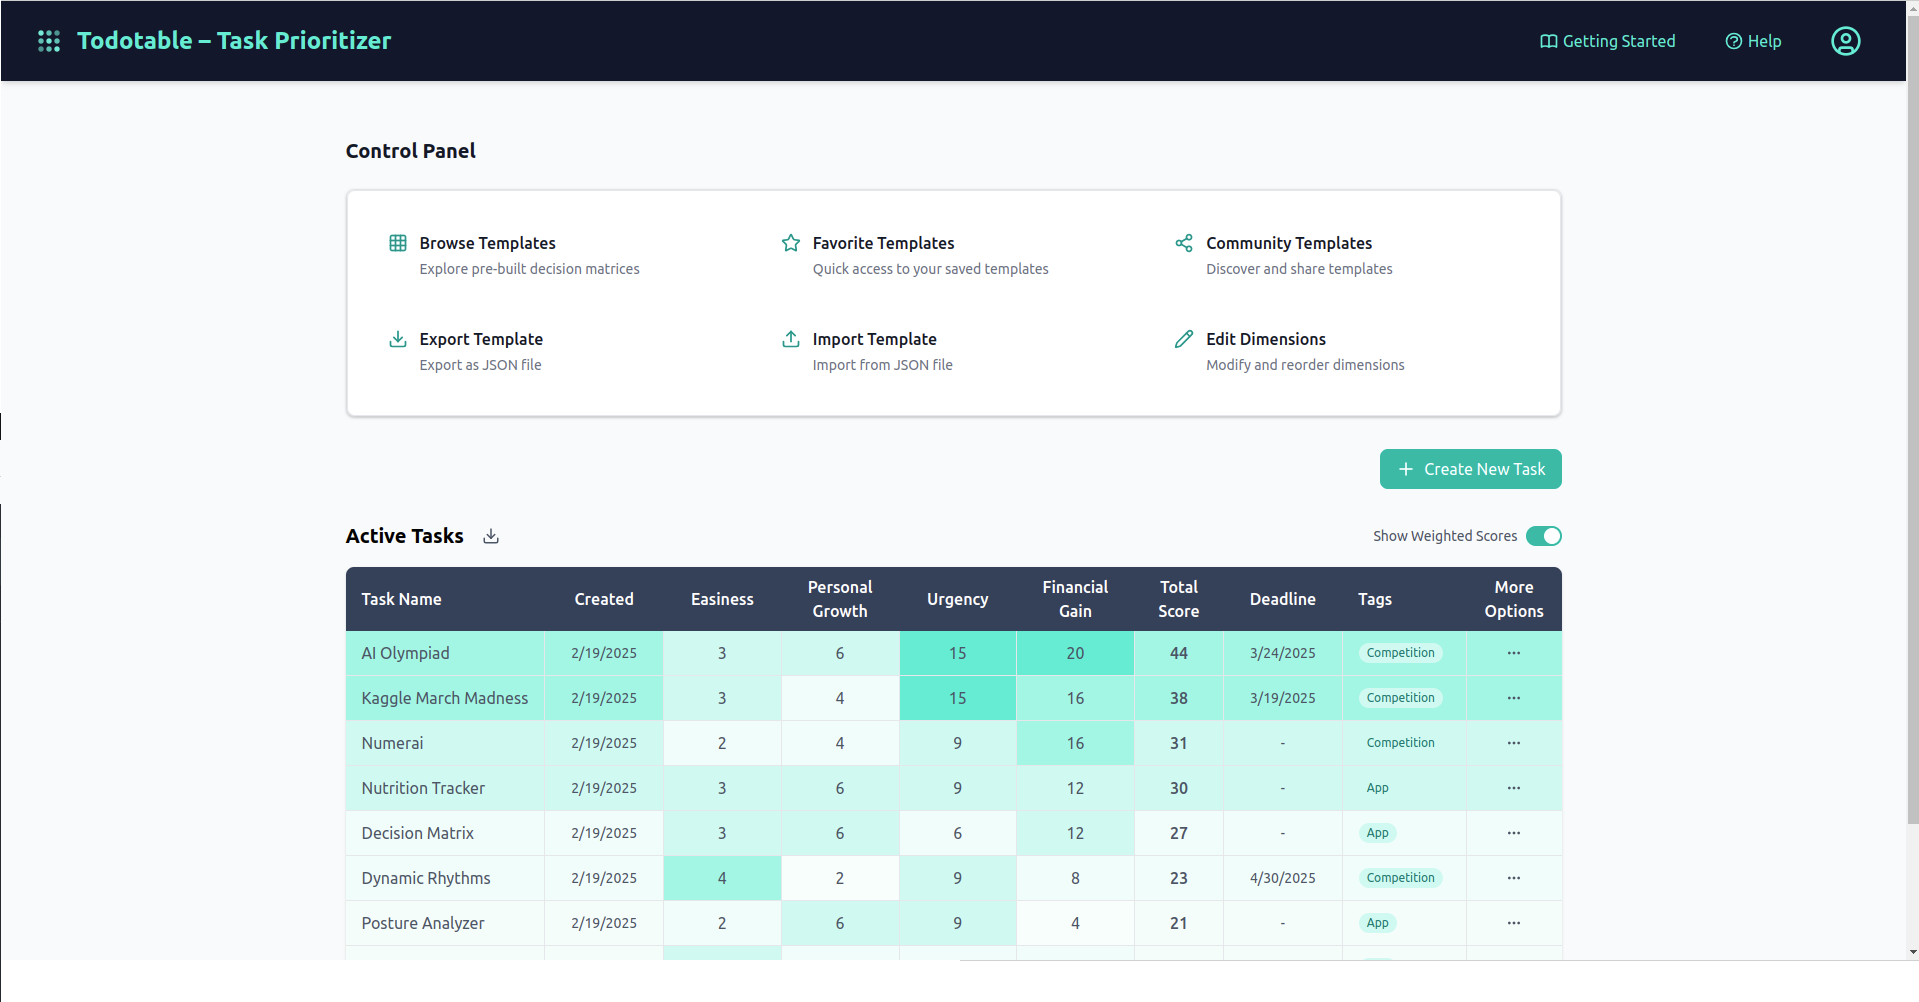
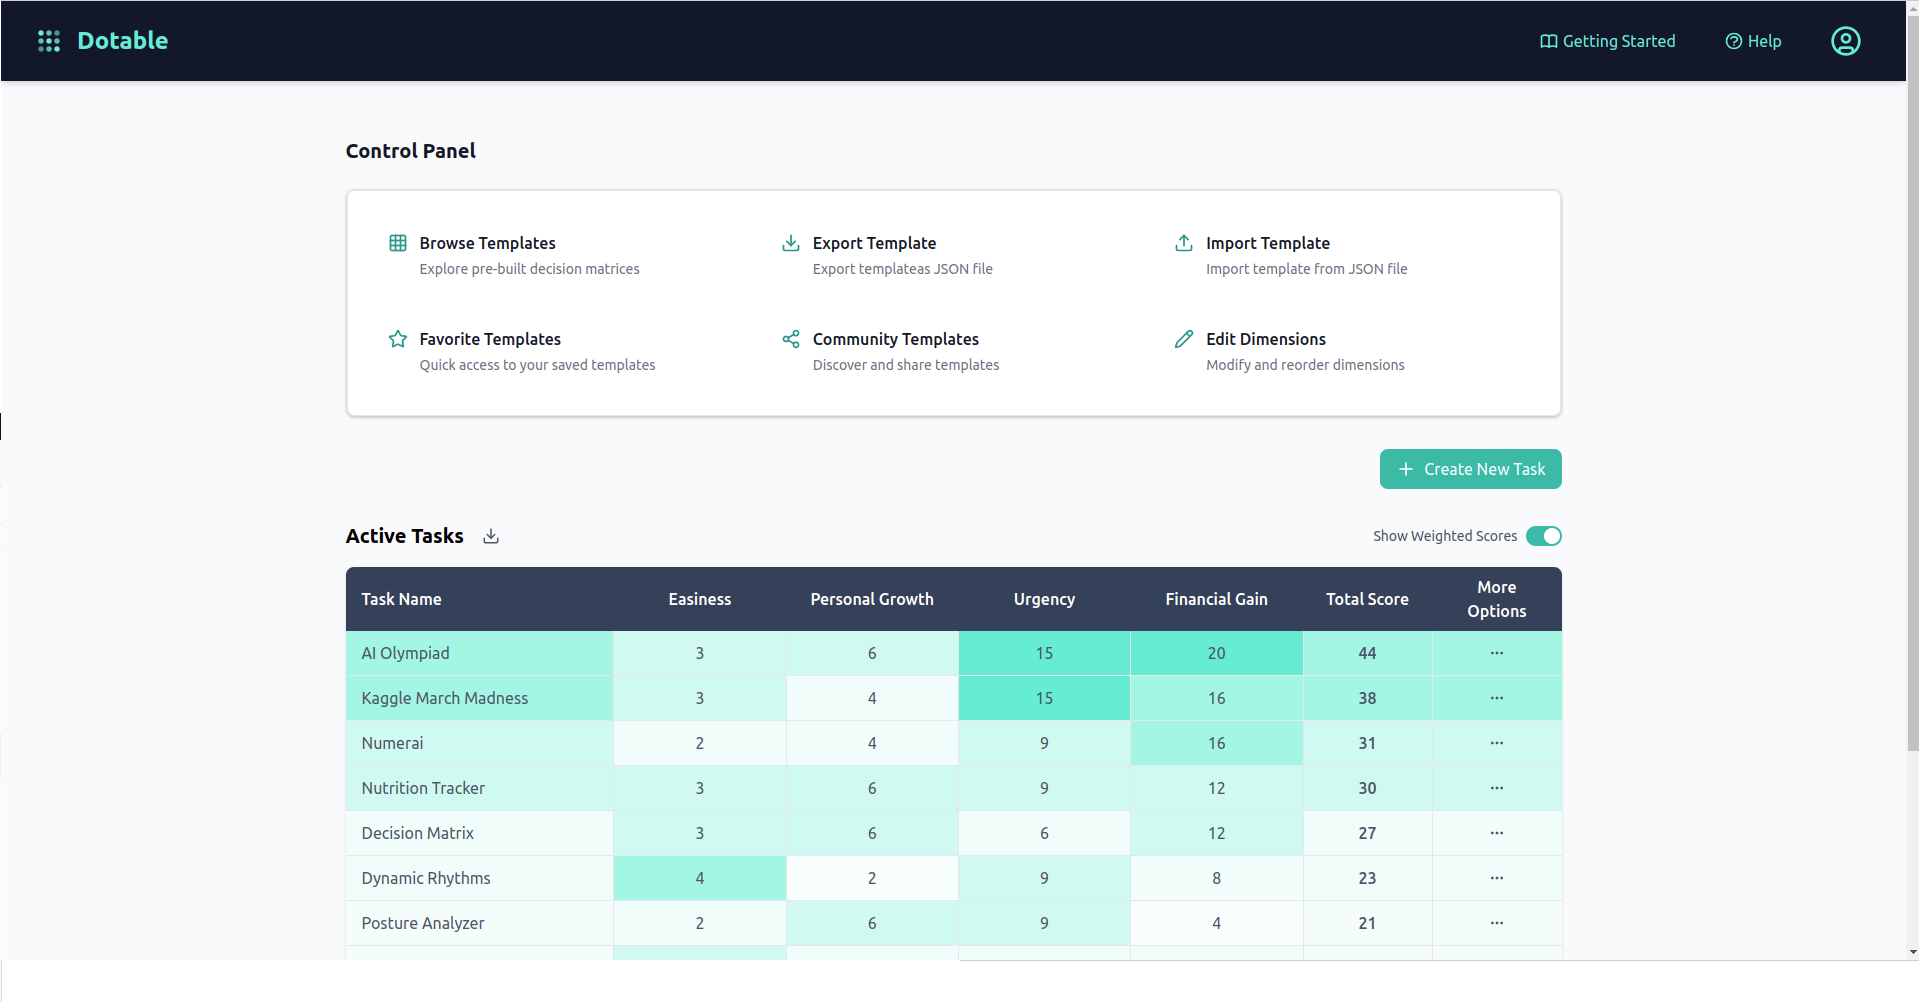
Fix routing bug

diff --git a/src/App.jsx b/src/App.jsx
@@ -82,10 +82,10 @@ function loadTemplateFromStorage() {
 // Create an inner component that can use the useNavigate hook
 function AppContent() {
   const navigate = useNavigate();
-  
+
   // Initialize template and dimensions from localStorage
   const [currentTemplate, setCurrentTemplate] = useState(loadTemplateFromStorage);
-  
+
   // Update localStorage whenever template changes
   useEffect(() => {
     if (currentTemplate) {
@@ -100,7 +100,7 @@ function AppContent() {
     const saved = localStorage.getItem('decision-matrix-show-weighted-scores');
     return saved ? JSON.parse(saved) : true;
   });
-  
+
   // Get tasks state and methods from the hook
   const {
     tasks,
@@ -157,10 +157,10 @@ function AppContent() {
       // Set active and completed tasks
       const activeTasks = (data.activeTasks || []).map(processTask);
       const completedTasks = (data.completedTasks || []).map(processTask);
-      
+
       setTasks(activeTasks);
       setCompletedTasks(completedTasks);
-      
+
       // Update settings if present
       if (data.settings?.showWeightedScores !== undefined) {
         setShowWeightedScores(Boolean(data.settings.showWeightedScores));
@@ -216,11 +216,11 @@ function AppContent() {
     const timestamp = new Date().toISOString().replace(/[:.]/g, '-');
     const blob = new Blob([JSON.stringify(data, null, 2)], { type: 'application/json' });
     const url = URL.createObjectURL(blob);
-    
+
     try {
       const a = document.createElement('a');
       a.href = url;
-      a.download = `2dotable-template-${timestamp}.json`;
+      a.download = `dotable-template-${timestamp}.json`;
       document.body.appendChild(a);
       a.click();
     } finally {
@@ -247,7 +247,7 @@ function AppContent() {
       ...template,
       dimensions: newDimensions
     });
-    
+
     // Create sample tasks with proper structure
     const tasks = (template.tasks || []).map(task => {
       // Create a case-insensitive map of values
@@ -255,7 +255,7 @@ function AppContent() {
       Object.entries(task.values).forEach(([key, value]) => {
         normalizedValues[key.toLowerCase().replace(/\s+/g, '_')] = value;
       });
-      
+
       // Create the base task object
       const newTask = {
         id: Date.now() + Math.random(),
@@ -273,19 +273,19 @@ function AppContent() {
 
       return newTask;
     });
-    
+
     // Set tasks and update localStorage
     setTasks(tasks);
     localStorage.setItem(STORAGE_KEYS.ACTIVE_TASKS, JSON.stringify(tasks));
     localStorage.setItem(STORAGE_KEYS.COMPLETED_TASKS, JSON.stringify([]));
-    
+
     // Use React Router's navigate
     navigate('/');
   };
 
   return (
     <div className="min-h-screen bg-gray-50 flex flex-col">
-      <Navbar 
+      <Navbar
         onSave={handleSave}
         onImport={handleImport}
         onExport={handleExport}
@@ -357,8 +357,8 @@ function AppContent() {
 
 export function App() {
   return (
-    <BrowserRouter 
-      basename="/dotable/"
+    <BrowserRouter
+      basename="/dotable"
       future={{
         v7_startTransition: true,
         v7_relativeSplatPath: true

diff --git a/src/components/DoTable/index.jsx b/src/components/DoTable/index.jsx
@@ -1,5 +1,4 @@
 import React, { useState } from 'react';
-import { TableHeader } from './TableHeader';
 import { WeightedScoresToggle } from './WeightedScoresToggle';
 import { TableBody } from './TableBody';
 import { ConfirmationModal } from '../ConfirmationModal';
@@ -72,7 +71,7 @@ export function DoTable({
     <div className="mt-8">
       <div className="flex items-center justify-between mb-4">
         <div className="flex items-center gap-3">
-          <TableHeader />
+          <h2 className="text-xl font-semibold">Active Tasks</h2>
           <DownloadMenu tasks={tasks} dimensions={dimensions} />
         </div>
         <WeightedScoresToggle

diff --git a/vite.config.js b/vite.config.js
@@ -3,7 +3,7 @@ import tailwindcss from '@tailwindcss/vite'
 import react from '@vitejs/plugin-react'
 
 export default defineConfig({
-  base: '/dotable/',
+  base: '/dotable',
   plugins: [
     react(),
     tailwindcss(),

diff --git a/README.md b/README.md
@@ -14,9 +14,11 @@ This separation helps you make better decisions by focusing on one thing at a ti
 npm install
 npm run dev
 ```
+Why is there no page on /dotable but there is a page on /dotable/?
 
 ## Bugs / TODO
 * features
+    * add tests
     * Create two options for tables: prioritizer and a ranker
         * prioritizer: items have deadlines and can be completed
         * ranker: items do not have deadlines and cannot be completed
@@ -41,7 +43,7 @@ npm run dev
 * UX improvements
     * add a temporary green checkmark to the save menu item when the save is complete
     * sort rows by column values
-    * add option to hide columns in the task table
+    * add option to hide dimension columns in the task table
     * make it easier to modify the dimension weights via double clicking the header row
     * double click on cell to edit
     * make task actions less redundants
